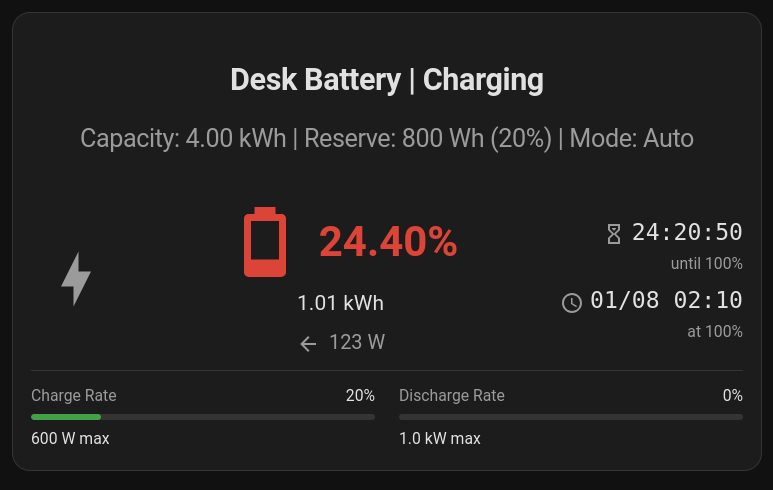
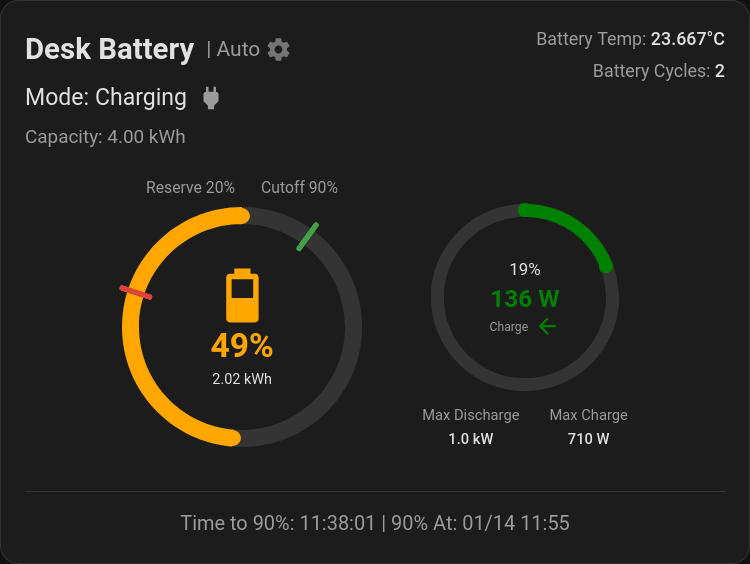
Update README and add preview mode
- Update README to reflect v2.x features and remove obsolete options
- Add demo preview when entities not configured (replaces error state)
- Update example screenshot for v2.x circular gauge design

diff --git a/universal-battery-card.js b/universal-battery-card.js
@@ -1172,12 +1172,12 @@ class UniversalBatteryCard extends LitElement {
       return this._renderLoading();
     }
 
-    // Check required entities
-    if (!this._config.soc_entity || !entityExists(this.hass, this._config.soc_entity)) {
-      return this._renderError('SOC Entity not configured or not found');
-    }
-    if (!this._config.power_entity || !entityExists(this.hass, this._config.power_entity)) {
-      return this._renderError('Power Entity not configured or not found');
+    // Check required entities - show preview if not configured
+    const socMissing = !this._config.soc_entity || !entityExists(this.hass, this._config.soc_entity);
+    const powerMissing = !this._config.power_entity || !entityExists(this.hass, this._config.power_entity);
+
+    if (socMissing || powerMissing) {
+      return this._renderPreview();
     }
 
     const stats = this._calculateStats();
@@ -1388,6 +1388,45 @@ class UniversalBatteryCard extends LitElement {
               <div class="gauge-center">
                 <ha-icon icon="mdi:battery-50" class="skeleton"></ha-icon>
                 <span class="soc-value skeleton">--%</span>
+              </div>
+            </div>
+          </div>
+        </div>
+      </ha-card>
+    `;
+  }
+
+  _renderPreview() {
+    // Demo values for preview
+    const socPercent = 72;
+    const socColor = 'rgb(0, 128, 0)';
+    const thickness = this._config.gauge_thickness ?? 15;
+    const socCapPos = this._getCapPosition(socPercent, thickness);
+    const socGaugeBackground = this._getGaugeBackground(socPercent, socColor);
+
+    return html`
+      <ha-card>
+        <div class="header">
+          <div class="header-left">
+            <div class="title-row">
+              <span class="title">${this._config.name}</span>
+            </div>
+            <div class="state-row" style="opacity: 0.6">
+              Configure entities to get started
+            </div>
+          </div>
+        </div>
+        <div class="gauges-container">
+          <div class="gauge-wrapper main-gauge-wrapper">
+            <div class="gauge main-gauge" style="background: ${socGaugeBackground}; --ring-thickness: ${thickness}%">
+              ${socPercent > 0 ? html`
+                <div class="gauge-cap" style="background: ${socColor}; top: ${socCapPos.startY}%; left: 50%;"></div>
+                <div class="gauge-cap" style="background: ${socColor}; top: ${socCapPos.y}%; left: ${socCapPos.x}%;"></div>
+              ` : ''}
+              <div class="gauge-center">
+                <ha-icon icon="mdi:battery-70" style="color: ${socColor}"></ha-icon>
+                <span class="soc-value" style="color: ${socColor}">${socPercent}%</span>
+                <span class="energy-value">3.74 kWh</span>
               </div>
             </div>
           </div>

diff --git a/README.md b/README.md
@@ -6,18 +6,18 @@ A generic Home Assistant Lovelace card for displaying battery information from *
 
 ## Features
 
-- **SOC Display**: Battery state of charge percentage with color-coded icon
-- **Energy Display**: Current battery energy in Wh/kWh
-- **Power Flow**: Real-time charge/discharge power with direction indicator
-- **Time Estimates**: Estimated time to target and ETA
+- **Circular Gauges**: SOC gauge with color-coded ring and optional power gauge
+- **Responsive Sizing**: Automatically scales to fit Home Assistant's Sections view grid
+- **Entity-Specific Clicks**: Click any element to open its entity's more-info dialog
+- **Power Flow**: Real-time charge/discharge with directional fill (clockwise for charging, counter-clockwise for discharging)
+- **Time Estimates**: Estimated time to full/empty and ETA
+- **Stats Panel**: Optional temperature, cycle count, and health display
+- **Reserve & Cutoff Markers**: Visual indicators on the SOC gauge
 - **Color Thresholds**: 5 customizable SOC levels with individual colors
-- **Custom Status**: Optional entity for custom state text display
-- **Mode Display**: Optional entity to show current battery mode
-- **Fixed Values**: Use entities or fixed values for capacity, reserve, and rates
-- **Tap Actions**: Configurable tap, hold, and double-tap actions
+- **Fixed Values**: Use entities or fixed values for capacity, reserve, rates, and cutoff
 - **Trickle Charge Filter**: Filter out small power fluctuations
 - **Custom Icons**: Configurable icons for charging, discharging, and idle states
-- **Compact Mode**: Reduced height layout for dashboard space optimization
+- **Header Styles**: Full, title-only, or no header options
 - **Loading State**: Skeleton UI while waiting for entity data
 - **Visual Editor**: Full point-and-click configuration UI
 
@@ -62,6 +62,10 @@ A generic Home Assistant Lovelace card for displaying battery information from *
 | `reserve_entity` | Battery reserve percentage (or use fixed `reserve`) |
 | `charge_rate_entity` | Max charge rate (or use fixed `charge_rate`) |
 | `discharge_rate_entity` | Max discharge rate (or use fixed `discharge_rate`) |
+| `cutoff_entity` | Max charge cutoff percentage (or use fixed `cutoff`) |
+| `temp_entity` | Battery temperature sensor |
+| `cycles_entity` | Battery cycle count sensor |
+| `health_entity` | Battery health percentage sensor |
 
 ### Fixed Values
 
@@ -73,6 +77,17 @@ Instead of entities, you can set fixed values:
 | `reserve` | Fixed reserve percentage |
 | `charge_rate` | Fixed max charge rate in W |
 | `discharge_rate` | Fixed max discharge rate in W |
+| `cutoff` | Fixed max charge cutoff percentage |
+
+### Display Options
+
+| Option | Default | Description |
+|--------|---------|-------------|
+| `header_style` | `full` | Header display: `full`, `title`, or `none` |
+| `show_runtime` | `true` | Show time estimates in footer |
+| `show_rates` | `true` | Show power gauge (requires charge/discharge rates) |
+| `gauge_thickness` | `15` | Ring thickness as percentage (5-15) |
+| `decimal_places` | `3` | Decimal places for energy values |
 
 ### Example Configuration
 
@@ -84,8 +99,11 @@ power_entity: sensor.battery_power
 soc_energy_entity: sensor.battery_soc_kwh
 capacity: 5.2
 reserve: 4
+cutoff: 90
 state_entity: sensor.battery_state
 mode_entity: input_select.battery_mode
+temp_entity: sensor.battery_temperature
+cycles_entity: sensor.battery_cycles
 ```
 
 ### Minimal Configuration
@@ -123,21 +141,6 @@ icon_discharging: mdi:home-export-outline
 icon_idle: mdi:sleep
 ```
 
-### Tap Actions
-
-```yaml
-tap_action:
-  action: more-info
-  entity: sensor.battery_soc
-hold_action:
-  action: navigate
-  navigation_path: /lovelace/energy
-double_tap_action:
-  action: none
-```
-
-Supported actions: `more-info`, `navigate`, `url`, `call-service`, `none`
-
 ### Trickle Charge Filter
 
 ```yaml
@@ -145,21 +148,27 @@ enable_trickle_charge_filter: true
 trickle_charge_threshold: 25  # Watts
 ```
 
-### Compact Mode
+## Click Behavior
 
-Enable compact mode for a smaller card that hides time estimates, energy display, and rate bars:
+Clicking on card elements opens the more-info dialog for the associated entity:
 
-```yaml
-compact: true
-```
+| Element | Entity |
+|---------|--------|
+| SOC gauge | `soc_entity` |
+| Power gauge | `power_entity` |
+| Temperature stat | `temp_entity` |
+| Cycles stat | `cycles_entity` |
+| Health stat | `health_entity` |
+| Mode/cog icon | `mode_entity` |
+| State row | `state_entity` |
 
 ## Visual Editor
 
 The card includes a full visual configuration editor. Click "Edit" on any card to access tabs for:
 
-- **General**: Card name, decimal places, compact mode
+- **General**: Card name, decimal places, header style, display toggles, gauge thickness
 - **Entities**: All sensor/entity pickers and fixed values
-- **Actions**: Tap, hold, and double-tap actions
+- **Stats**: Temperature, cycles, and health entities
 - **SOC Colors**: Threshold percentages and colors
 - **Icons**: Custom status icons
 - **Filters**: Trickle charge settings
